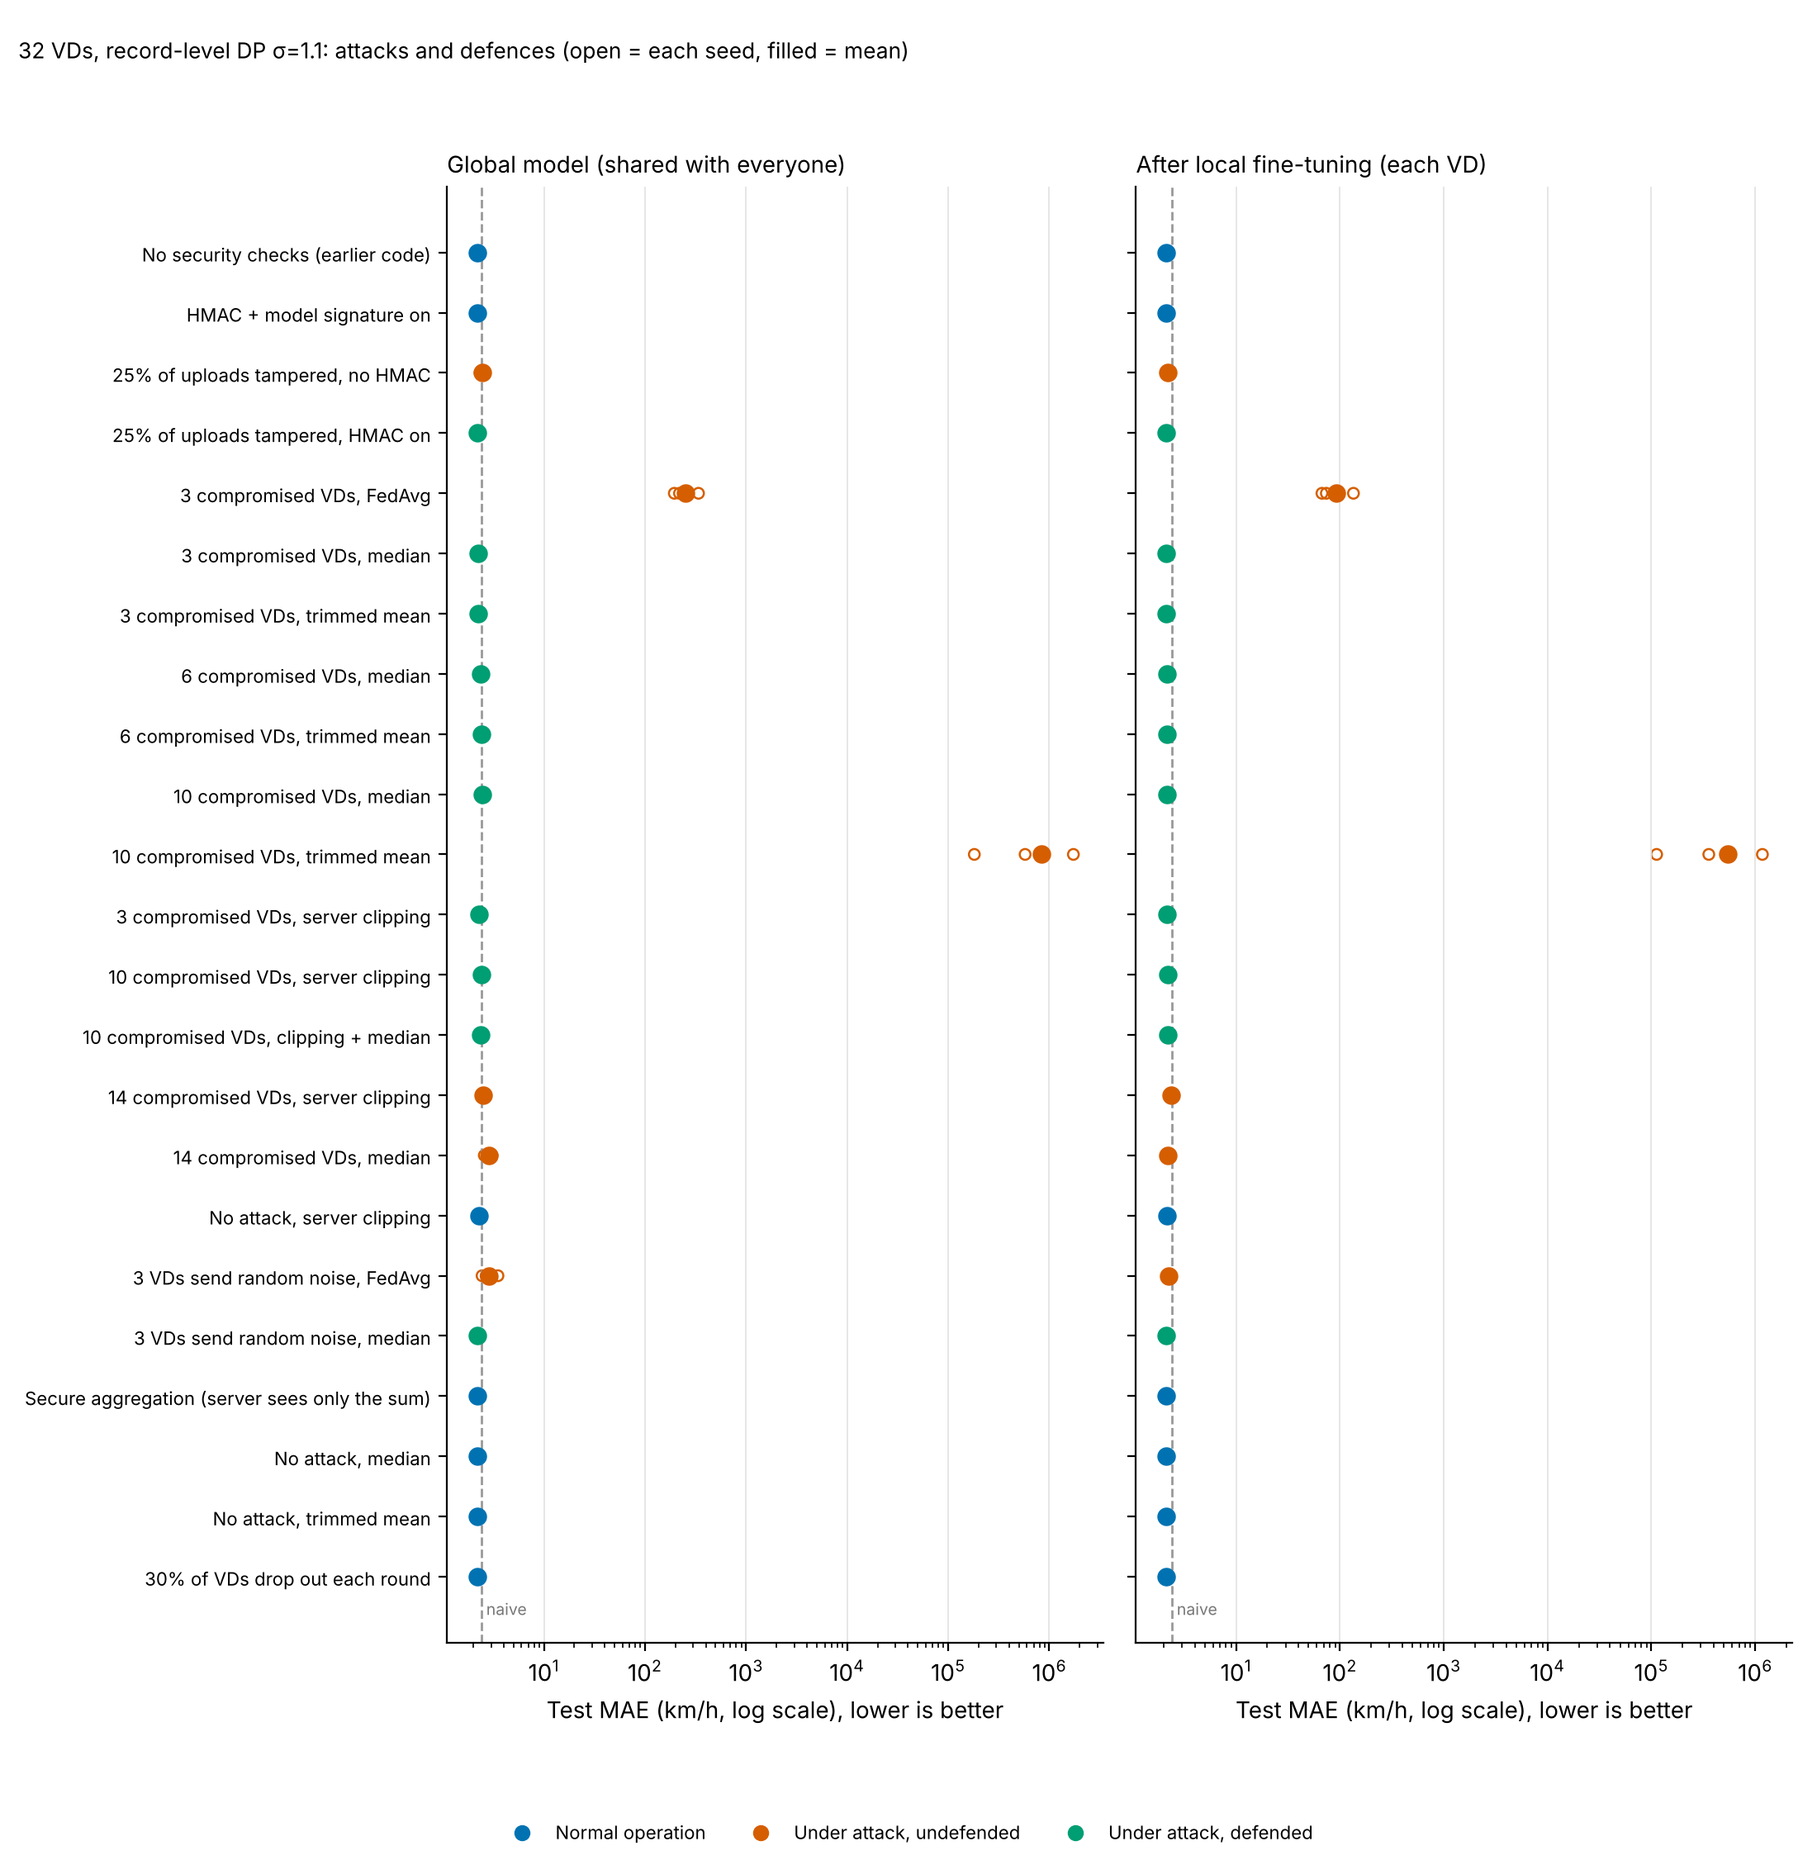
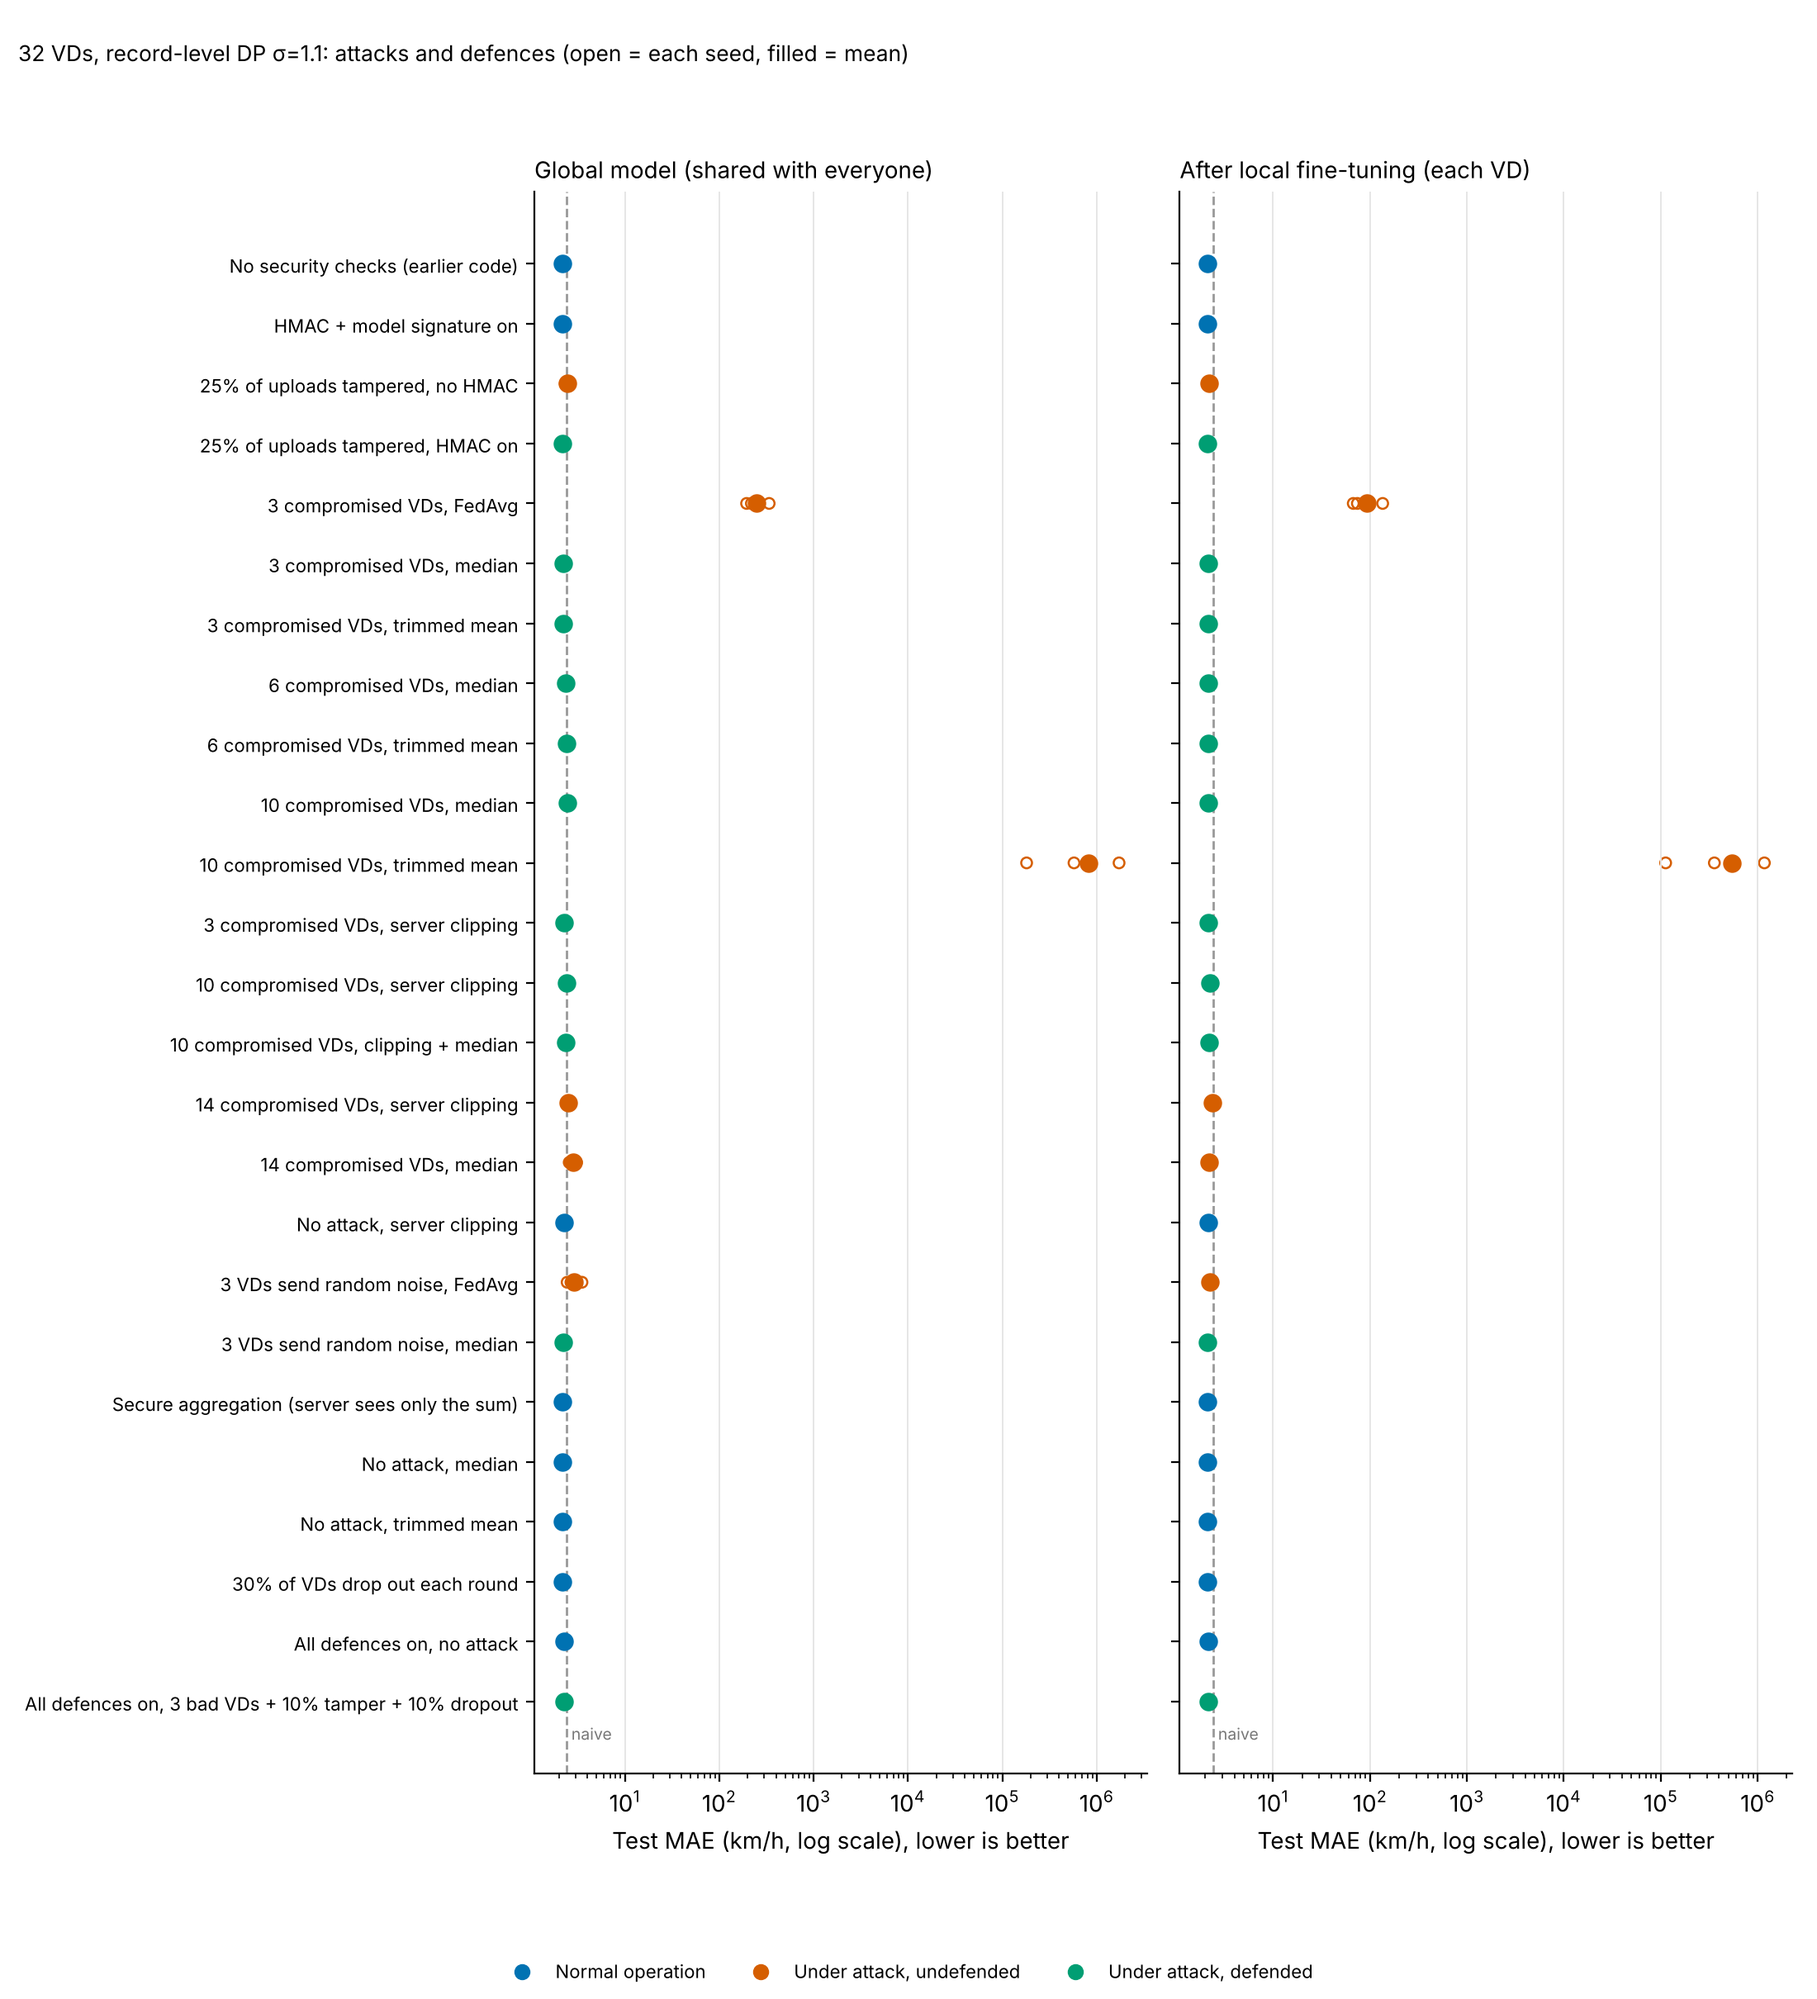
全部防禦一起開：同時有攻擊、竄改、斷線時全域 2.295，仍贏 naive
Claude-Session: https://claude.ai/code/session_01EJ1mjjmKwMNR6cY38Rxgw7

diff --git a/scripts/plot_security.py b/scripts/plot_security.py
@@ -44,6 +44,8 @@ SCENARIOS = [
     ("No attack, median", "s32_median", "base"),
     ("No attack, trimmed mean", "s32_trimmed", "base"),
     ("30% of VDs drop out each round", "s32_drop30", "base"),
+    ("All defences on, no attack", "s32_full_noatk", "base"),
+    ("All defences on, 3 bad VDs + 10% tamper + 10% dropout", "s32_full_atk3", "defended"),
 ]
 COLORS = {"base": "#0072B2", "attack": "#D55E00", "defended": "#009E73"}  # Okabe-Ito
 

diff --git a/README.md b/README.md
@@ -560,6 +560,8 @@ naive 基準 2.429 km/h。
 | 沒有攻擊，中位數 | `aggregator='median'` | 2.189 | 2.117 | 正常情況下的代價：+0.005（不顯著） |
 | 沒有攻擊，截尾平均 | `aggregator='trimmed'` | 2.186 | 2.116 | +0.002（不顯著） |
 | 每輪 30% VD 斷線 | `dropout-rate=0.3` | 2.194 | 2.118 | 每個 seed 約 193 次斷線，訓練照常完成 |
+| **全部防禦一起開**，沒有攻擊 | `update-auth='ed25519' upload-bits=4 aggregator='median' client-dp-noise=0.01 client-dp-clip=0.2` | 2.275 | 2.161 | 每 VD 每輪只上傳 0.79 KB |
+| **全部防禦一起開**，同時 3 個 VD 被入侵＋10% 竄改＋10% 斷線 | `+ attack-clients=3 tamper-rate=0.1 dropout-rate=0.1` | **2.295** | 2.164 | 竄改 63 份全被拒絕、54 次斷線；仍贏 naive 5.5% |
 
 | 6 個 VD 被入侵，中位數／截尾平均 | `attack-clients=6` | 2.356／2.397 | 2.148／2.157 | 仍贏 naive |
 | 10 個 VD 被入侵，中位數 | `attack-clients=10` | 2.469（略輸 naive） | 2.160 | 微調後仍贏 naive 11% |
